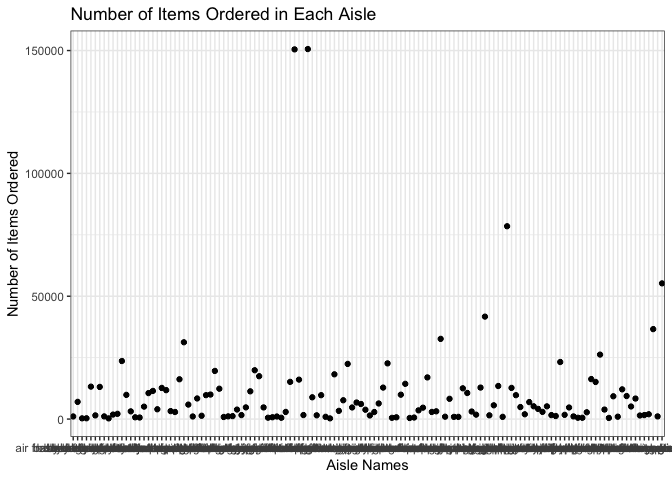
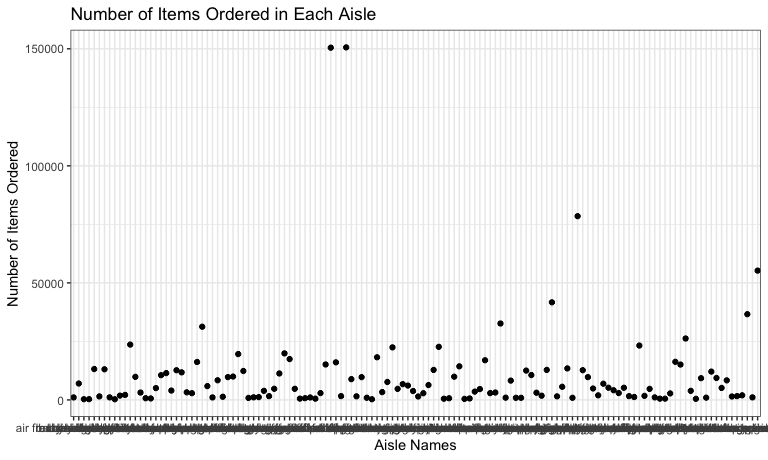
Plots format revised

diff --git a/p8105_hw3_jt3098.md b/p8105_hw3_jt3098.md
@@ -19,24 +19,77 @@ library(p8105.datasets)
 data(brfss_smart2010, package = "p8105.datasets")
 ```
 
-Data Manipulation
-=================
-
 ``` r
 brfss_smart2010 = 
   brfss_smart2010 %>%
   janitor::clean_names() %>% # Change upper-case letter to lower-case letter
   filter(topic == "Overall Health") %>% # Focus on the topic of Overall Health
-  filter(response %in% c("Excellent", "Very Good", "Good", "Fair", "Poor"))
+  filter(response %in% c("Excellent", "Very good", "Good", "Fair", "Poor"))
 ```
-
-Convert variable "response" from character to factor
-====================================================
 
 ``` r
 brfss_smart2010$response = factor(brfss_smart2010$response, 
-                                  levels = c("Excellent", "Very Good", "Good", "Fair", "Poor"))
+                                  levels = c("Excellent", "Very good", "Good", "Fair", "Poor"))
 ```
+
+``` r
+brfss_smart2002 = 
+  brfss_smart2010 %>%
+  filter(year == "2002") %>%
+  group_by(locationabbr) %>%
+  summarise(n_observed_location = n_distinct(geo_location)) %>%
+  filter(n_observed_location == 7)
+```
+
+In 2002, there 3 states observed in 7 locations. They are Connecticut (CT), Florida (FL), and North Carolina (NC).
+
+``` r
+brfss_smart2010 %>%
+  group_by(locationabbr, year) %>%
+  summarise(n_observation = sum(sample_size)) %>%
+  ggplot(aes(x = year, y = n_observation, color = locationabbr)) +
+  geom_line(alpha = 0.5) +
+  labs(
+    title = "Observation Times of Each States from 2002 to 2010",
+    y = "Observation Times",
+    x = "Year"
+  ) + 
+  theme_bw()
+```
+
+<img src="p8105_hw3_jt3098_files/figure-markdown_github/Spaghetti plot-1.png" width="100%" />
+
+``` r
+brfss_prop_020610 = 
+  brfss_smart2010 %>%
+  filter(year %in% c("2002", "2006", "2010"), response == "Excellent", locationabbr == "NY") %>%
+  group_by(year) %>%
+  summarise(mean = mean(data_value), standard_deviation = sd(data_value))
+```
+
+``` r
+brfss_prop_each = 
+  brfss_smart2010 %>%
+  group_by(year, locationabbr, response) %>%
+  summarise(average_proportion = mean(data_value, rm.na = TRUE))
+
+ggplot(brfss_prop_each, aes(x = year, y = average_proportion, color = locationabbr)) +
+  geom_line(alpha = 0.5) +
+  facet_grid( ~response) +
+  labs(
+    title = "Average Proportion for Each Response in Every States and Location from 2002 to 2010",
+    x = "Year",
+    y = "Average Proportion"
+  ) +
+  scale_x_continuous(
+    breaks = c(2004, 2008),
+    labels = c("2004", "2008")) +
+  theme_bw()
+```
+
+    ## Warning: Removed 1 rows containing missing values (geom_path).
+
+<img src="p8105_hw3_jt3098_files/figure-markdown_github/Five-panel Plot-1.png" width="100%" />
 
 Problem 2
 ---------
@@ -92,4 +145,4 @@ instacart %>%
   theme_bw()
 ```
 
-![](p8105_hw3_jt3098_files/figure-markdown_github/plots%20of%20number%20of%20items%20ordered%20in%20each%20aisle-1.png)
+<img src="p8105_hw3_jt3098_files/figure-markdown_github/plots of number of items ordered in each aisle-1.png" width="100%" />
